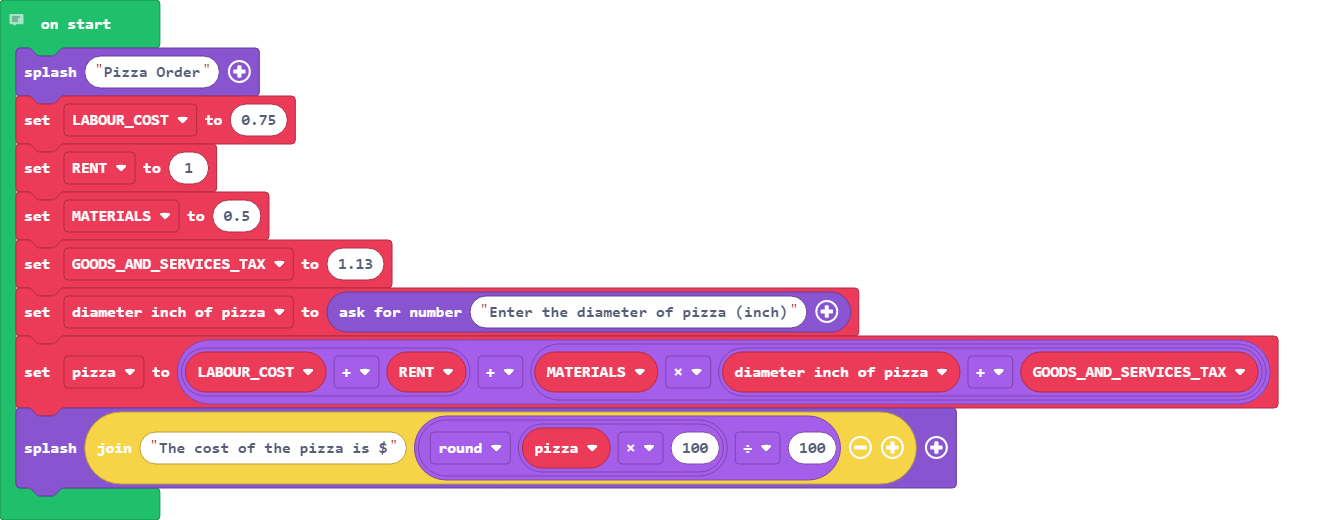
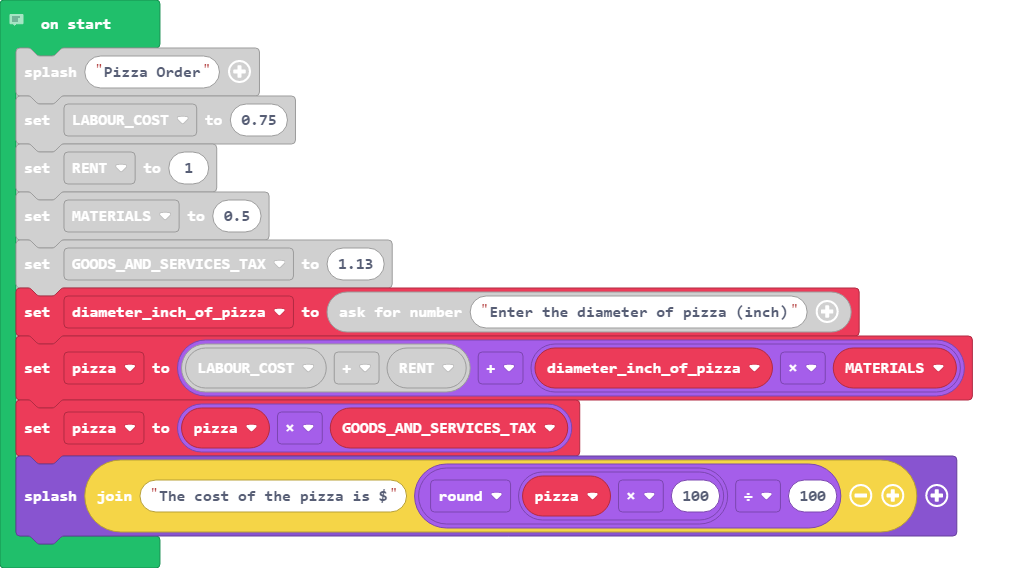
Update main.blocks, main.ts

diff --git a/main.ts b/main.ts
@@ -7,5 +7,6 @@ let RENT = 1
 let MATERIALS = 0.5
 let GOODS_AND_SERVICES_TAX = 1.13
 let diameter_inch_of_pizza = game.askForNumber("Enter the diameter of pizza (inch)")
-let pizza = LABOUR_COST + RENT + MATERIALS * (diameter_inch_of_pizza + GOODS_AND_SERVICES_TAX)
+let pizza = LABOUR_COST + RENT + diameter_inch_of_pizza * MATERIALS
+pizza = pizza * GOODS_AND_SERVICES_TAX
 game.splash("The cost of the pizza is $" + Math.round(pizza * 100) / 100)
